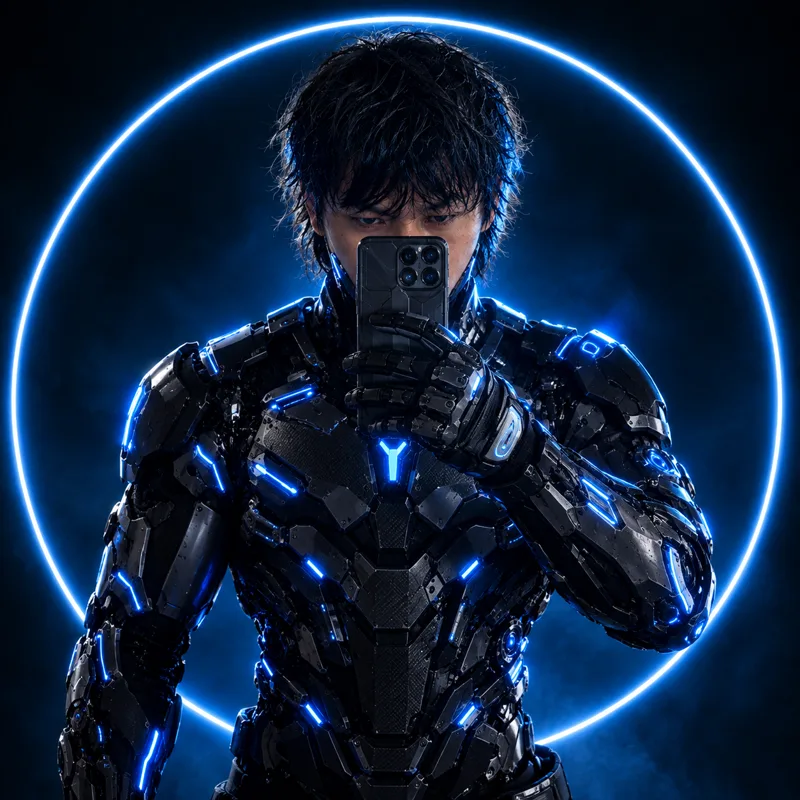
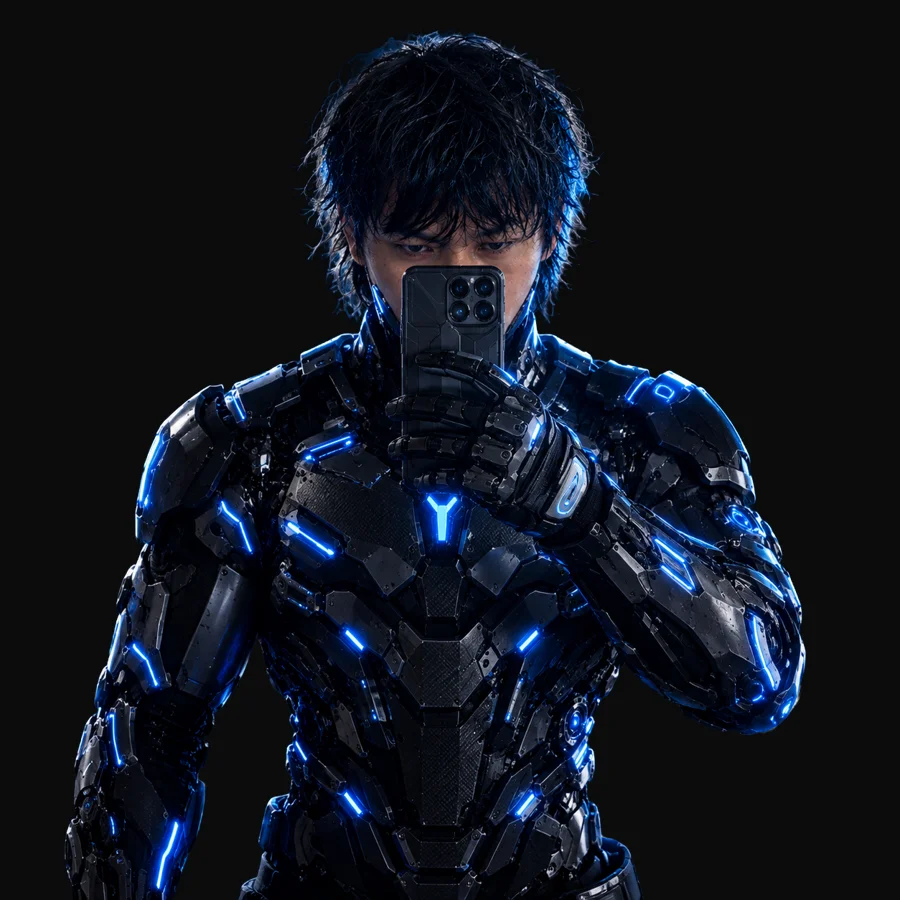
Use background-free photo

diff --git a/index.html b/index.html
@@ -159,7 +159,7 @@ footer .wrap{padding-block:28px;display:flex;flex-wrap:wrap;justify-content:spac
           <span>Works with <b>WordPress · Rank Math</b></span>
         </div>
       </div>
-      <img class="photo" src="profile.webp" width="800" height="800" alt="Mr. Jezz, SEO and Website Optimization Specialist">
+      <img class="photo" src="profile.webp" width="900" height="900" alt="Mr. Jezz, SEO and Website Optimization Specialist">
     </div>
   </div>
 
